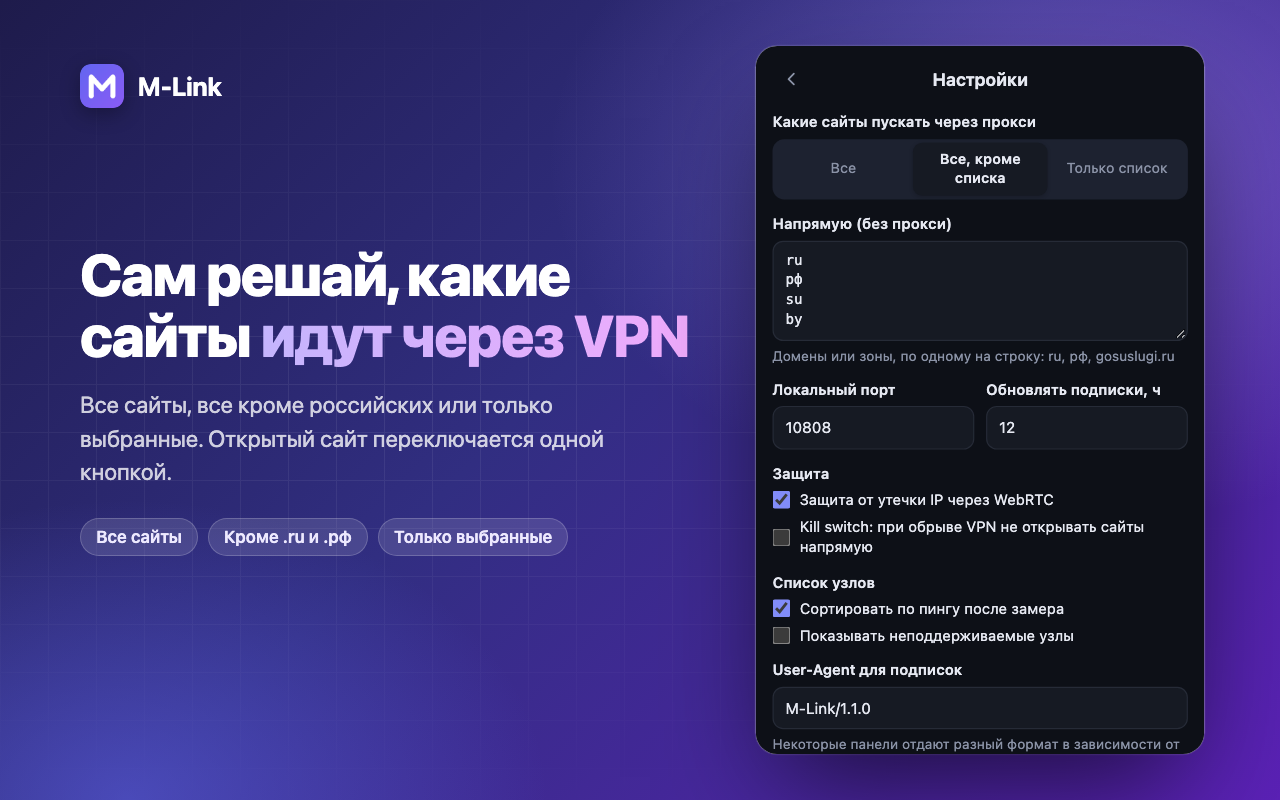
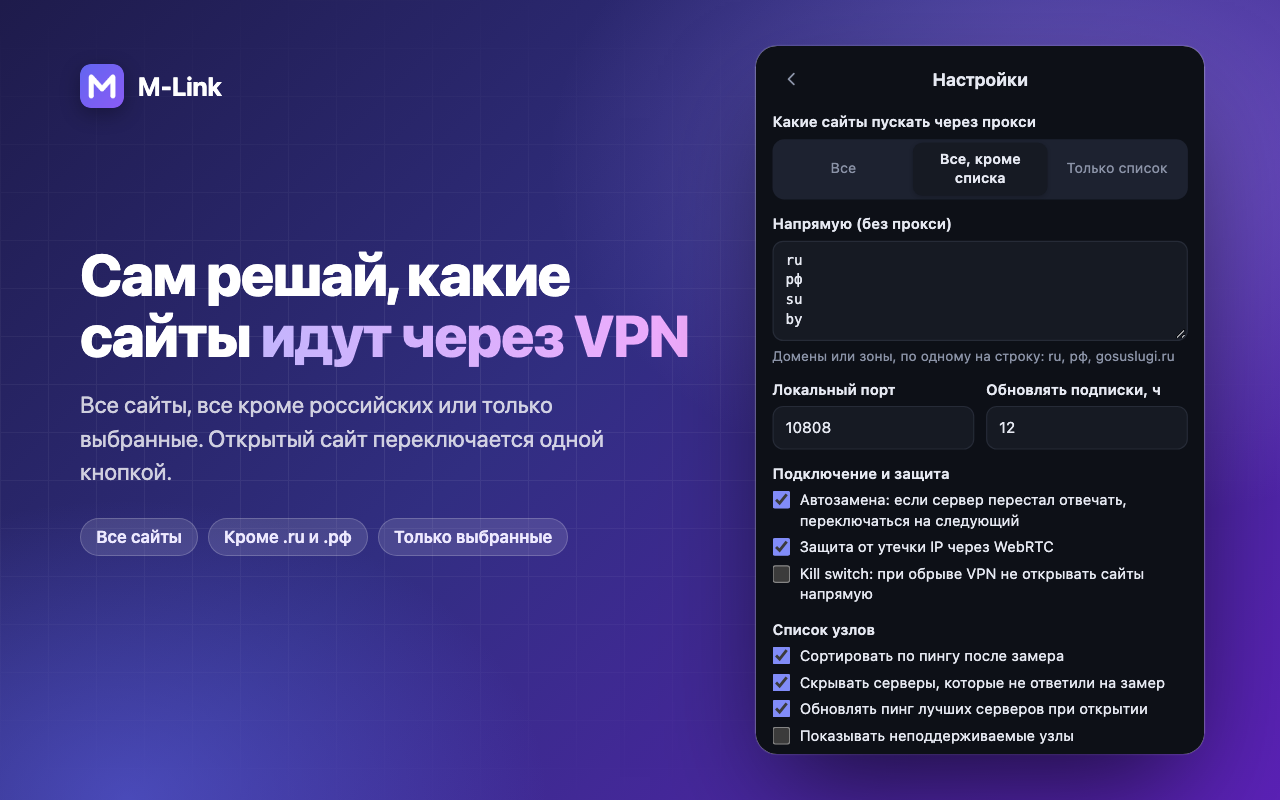
Docs, store listing and images for 1.2

Changed region(s): [[0.5938, 0.5625, 0.9062, 0.9375]]

diff --git a/PRIVACY.md b/PRIVACY.md
@@ -1,6 +1,6 @@
 # Политика конфиденциальности M-Link
 
-_Обновлено: 14 ноября 2026 г._ · [English version below](#m-link-privacy-policy)
+_Обновлено: 16 ноября 2026 г._ · [English version below](#m-link-privacy-policy)
 
 M-Link — это расширение для браузера и программа-помощник, которые подключают браузер к прокси-серверам пользователя. Мы не собираем и не получаем никаких данных пользователей.
 
@@ -23,7 +23,8 @@ M-Link — это расширение для браузера и програм
 - **Скачивание подписок** по ссылкам, которые добавил ты сам, у твоего поставщика подписки. Запрос выполняет помощник и передаёт заголовок `User-Agent: M-Link/<версия>`. Самому расширению доступ к сайтам не нужен.
 - **Служебный файл с GitHub** раз в сутки: `remote-config.json` из репозитория проекта. В нём номер актуальной версии помощника и текст рекламного блока. Запрос не содержит никаких данных о тебе, но GitHub, как любой сайт, видит IP-адрес.
 - **Трафик браузера** идёт через выбранный тобой сервер, а при режиме «все, кроме списка» или «только список» — напрямую для указанных сайтов. Что видит и хранит сервер, определяет его владелец, а не M-Link.
-- **Замер пинга:** запрос к `https://www.gstatic.com/generate_204` через каждый проверяемый сервер.
+- **Замер пинга:** запрос к `https://www.gstatic.com/generate_204` через каждый проверяемый сервер. Тот же запрос раз в минуту идёт через подключённый сервер, чтобы заметить, что он перестал отвечать (автозамену можно выключить в настройках).
+- **Отчёт для поддержки** составляется только по нажатию кнопки в настройках и попадает в буфер обмена. Сам он никуда не отправляется. В нём версии, настройки и журнал помощника; ссылки на подписки, ключи и адреса серверов из него вырезаются.
 - **Обновление помощника:** помощник версии 1.1 и новее раз в сутки (и когда ты нажимаешь «Обновить») узнаёт у `api.github.com` номер последнего релиза этого проекта и, если он новее, скачивает архив с `github.com`. Запрос не содержит данных о тебе.
 - **Ссылки «Скачать помощник», «Продлить» и рекламный блок** открывают GitHub, сайт или Telegram-бот сервиса только по твоему нажатию.
 
@@ -49,7 +50,7 @@ M-Link — это расширение для браузера и програм
 
 # M-Link Privacy Policy
 
-_Last updated: November 14, 2026_
+_Last updated: November 16, 2026_
 
 M-Link is a browser extension and a companion helper app that connect the browser to the user's own proxy servers. We do not collect or receive any user data.
 
@@ -72,7 +73,8 @@ Neither the extension nor the helper sends **anything** to the developer: no bro
 - **Subscription download** from the links the user added, sent to the user's subscription provider. The request is made by the helper app with the header `User-Agent: M-Link/<version>`. The extension itself has no access to websites.
 - **A config file from GitHub** once a day: `remote-config.json` from the project repository. It contains the current helper version and the text of the promo block. The request carries no user data, but GitHub, like any website, sees the IP address.
 - **Browser traffic** goes through the server selected by the user, or directly for sites excluded by the user's rules. What a server sees or logs is determined by its operator, not by M-Link.
-- **Latency test:** a request to `https://www.gstatic.com/generate_204` through each server being tested.
+- **Latency test:** a request to `https://www.gstatic.com/generate_204` through each server being tested. The same request is made once a minute through the connected server to notice when it stops responding (auto-switch can be turned off in settings).
+- **Support report** is created only when the user clicks the button in settings and is copied to the clipboard. It is not sent anywhere. It contains versions, settings and the helper log; subscription links, keys and server addresses are stripped from it.
 - **Helper updates:** helper 1.1 and later asks `api.github.com` once a day (and when the user clicks "Update") for the latest release of this project and, if it is newer, downloads the archive from `github.com`. The request carries no user data.
 - **"Download helper", "Renew" and promo links** open GitHub, the service's site or Telegram only when the user clicks them.
 

diff --git a/README.md b/README.md
@@ -6,7 +6,7 @@
 ┌────────────── Chrome ──────────────┐        ┌──────── компьютер ────────┐
 │ popup: подписки, узлы, пинг, режим │        │ m-link-helper (Go)        │
 │ background: chrome.proxy + PAC  ───┼─ SOCKS5 ─▶ sing-box 127.0.0.1:10808 ─▶ VLESS / Hy2 / …
-│                       Native Messaging ◀────▶ start / stop / test / fetch / stats / update │
+│                       Native Messaging ◀────▶ start / stop / test / fetch / stats / probe / diag / update │
 └────────────────────────────────────┘        └───────────────────────────┘
 ```
 
@@ -53,7 +53,10 @@ curl -fsSL https://raw.githubusercontent.com/Mag1c3R/m-link/main/install.sh | sh
 - **XHTTP и mKCP:** такие серверы запускаются через xray-core, остальные — через sing-box.
 - **Защита:** WebRTC не может показать настоящий IP в обход прокси (разрешение `privacy`). Kill switch по желанию: при обрыве сайты не открываются мимо VPN, расширение само переподключается.
 - **Текущий сайт:** переключатель «VPN / Напрямую» прямо в popup. Правило для сайта важнее режима.
-- **Скорость** загрузки и отдачи под кнопкой подключения (для серверов sing-box).
+- **Скорость** загрузки и отдачи под кнопкой подключения, для обоих ядер.
+- **Автозамена сервера:** раз в минуту расширение проверяет, что сервер отвечает. Если он замолчал, а интернет работает, оно переключается на следующий по пингу. Выключается в настройках.
+- **Большие подписки:** недоступные после замера серверы скрываются, при открытии обновляется пинг двадцати лучших, список меняется точечно, без полной перерисовки.
+- **Отчёт для поддержки:** кнопка в настройках копирует версии, настройки и журнал помощника. Ключи, ссылки и адреса из него вырезаются.
 - **Напоминание** за 3 дня до конца подписки и при остатке трафика меньше 10% с кнопкой «Продлить».
 - **Самообновление помощника:** расширение раз в сутки сверяет версию с [remote-config.json](remote-config.json). Помощник 1.1+ сам скачивает новую версию из релизов этого репозитория и проверяет её контрольную сумму, которую публикует GitHub.
 - **Языки:** русский и английский, выбор в настройках.
@@ -99,4 +102,3 @@ curl -fsSL https://raw.githubusercontent.com/Mag1c3R/m-link/main/install.sh | sh
 - Встроить sing-box в помощник как Go-библиотеку, чтобы получился один файл.
 - Поддержать Clash YAML.
 - Добавить диплинк для добавления подписки в один клик со страницы M-VPN (`externally_connectable`).
-- Показывать скорость и для серверов xray (через его API статистики).
